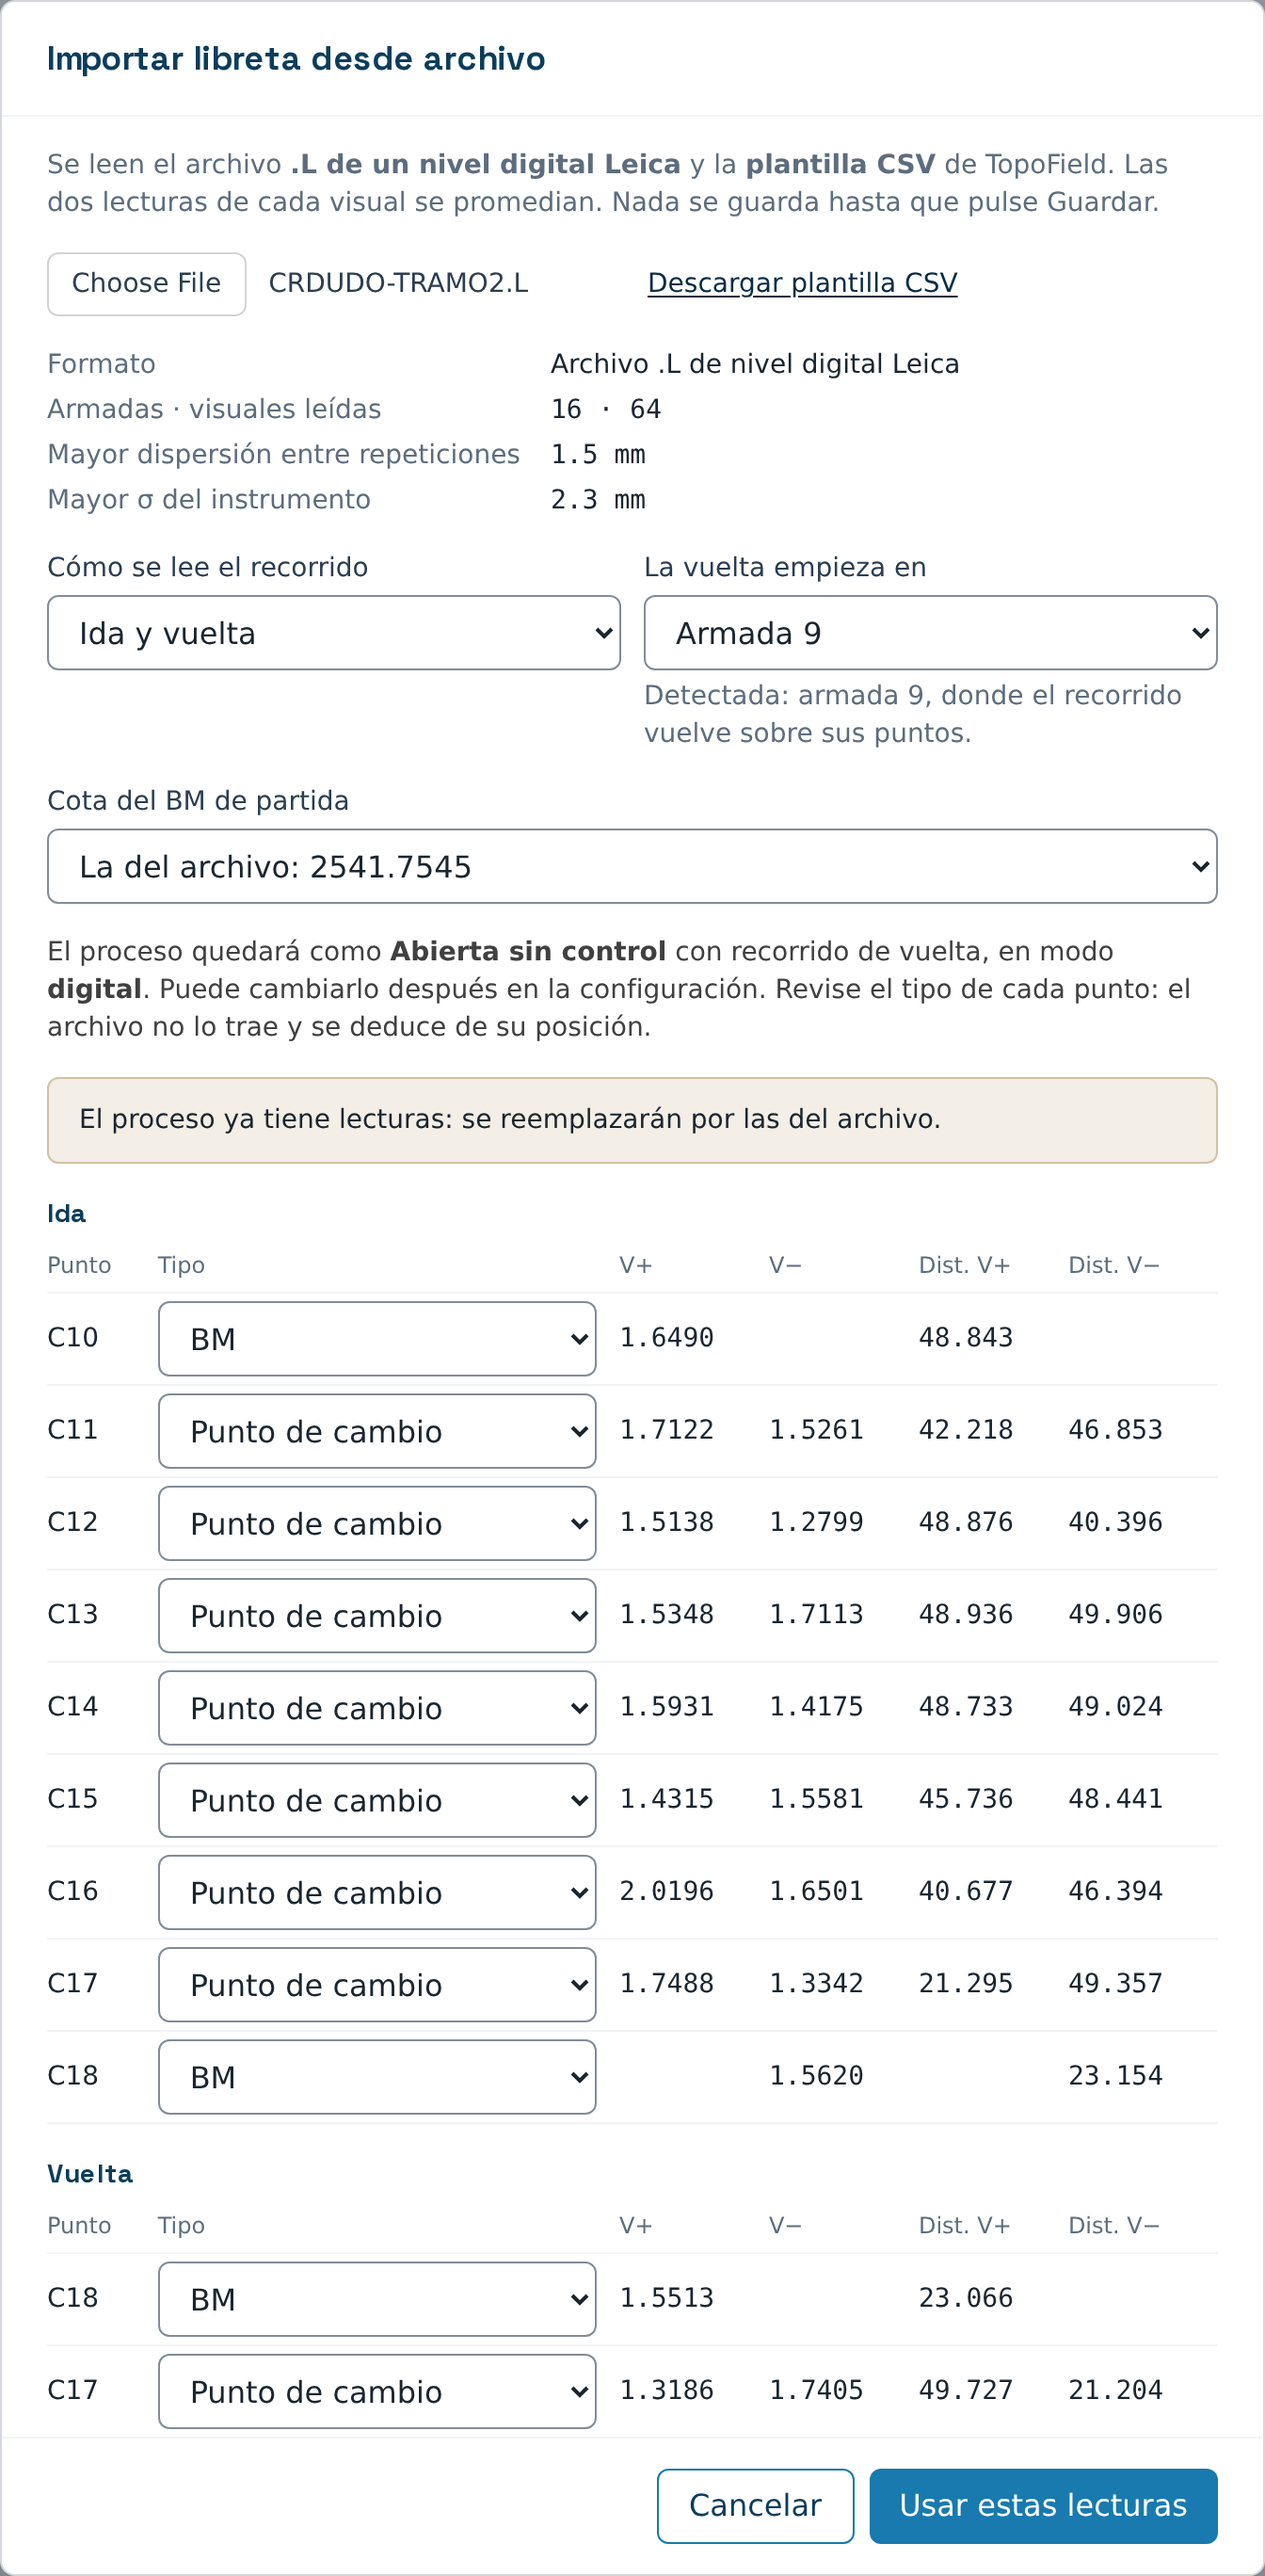
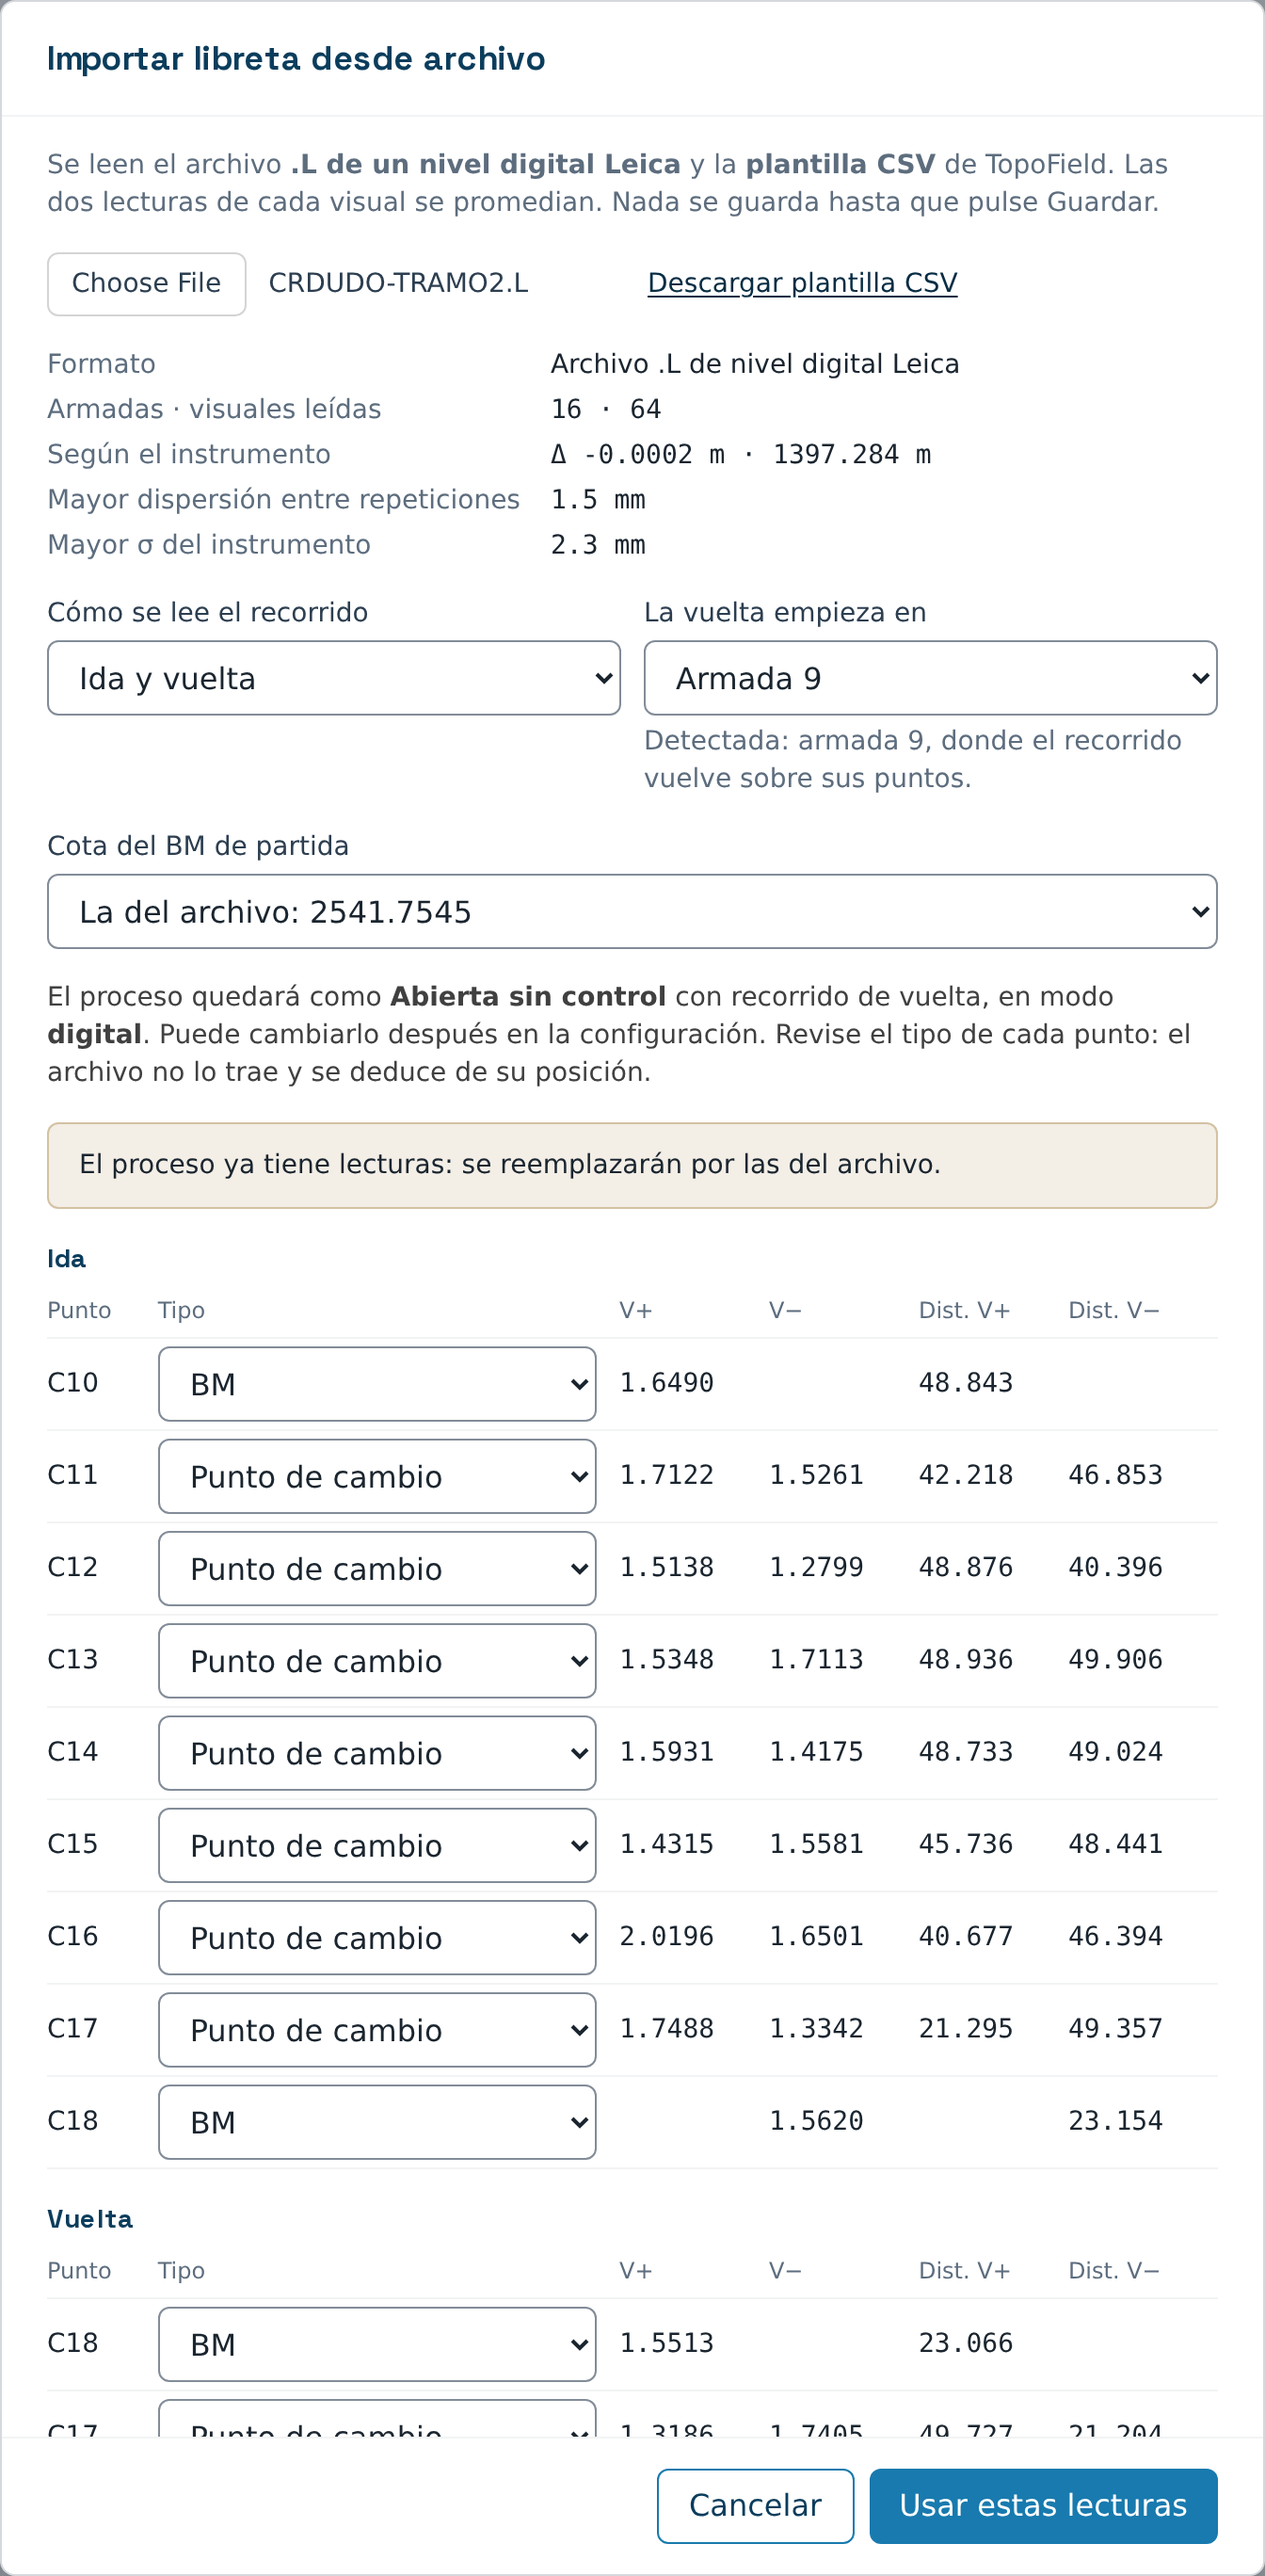
feat: la previsualización muestra el resumen que calcula el instrumento

diff --git a/src/components/leveling/import-dialog.tsx b/src/components/leveling/import-dialog.tsx
@@ -254,6 +254,15 @@ export function ImportDialog({
                 <dd className="font-mono tabular-nums">
                   {file.setups.length} · {file.rawSights}
                 </dd>
+                {file.instrumentSummary && (
+                  <>
+                    <dt className="text-neutral-500">Según el instrumento</dt>
+                    <dd className="font-mono tabular-nums">
+                      Δ {file.instrumentSummary.heightDifference.toFixed(4)} m ·{" "}
+                      {file.instrumentSummary.distance.toFixed(3)} m
+                    </dd>
+                  </>
+                )}
                 {file.quality.maxRepeatSpreadMm != null && (
                   <>
                     <dt className="text-neutral-500">Mayor dispersión entre repeticiones</dt>
